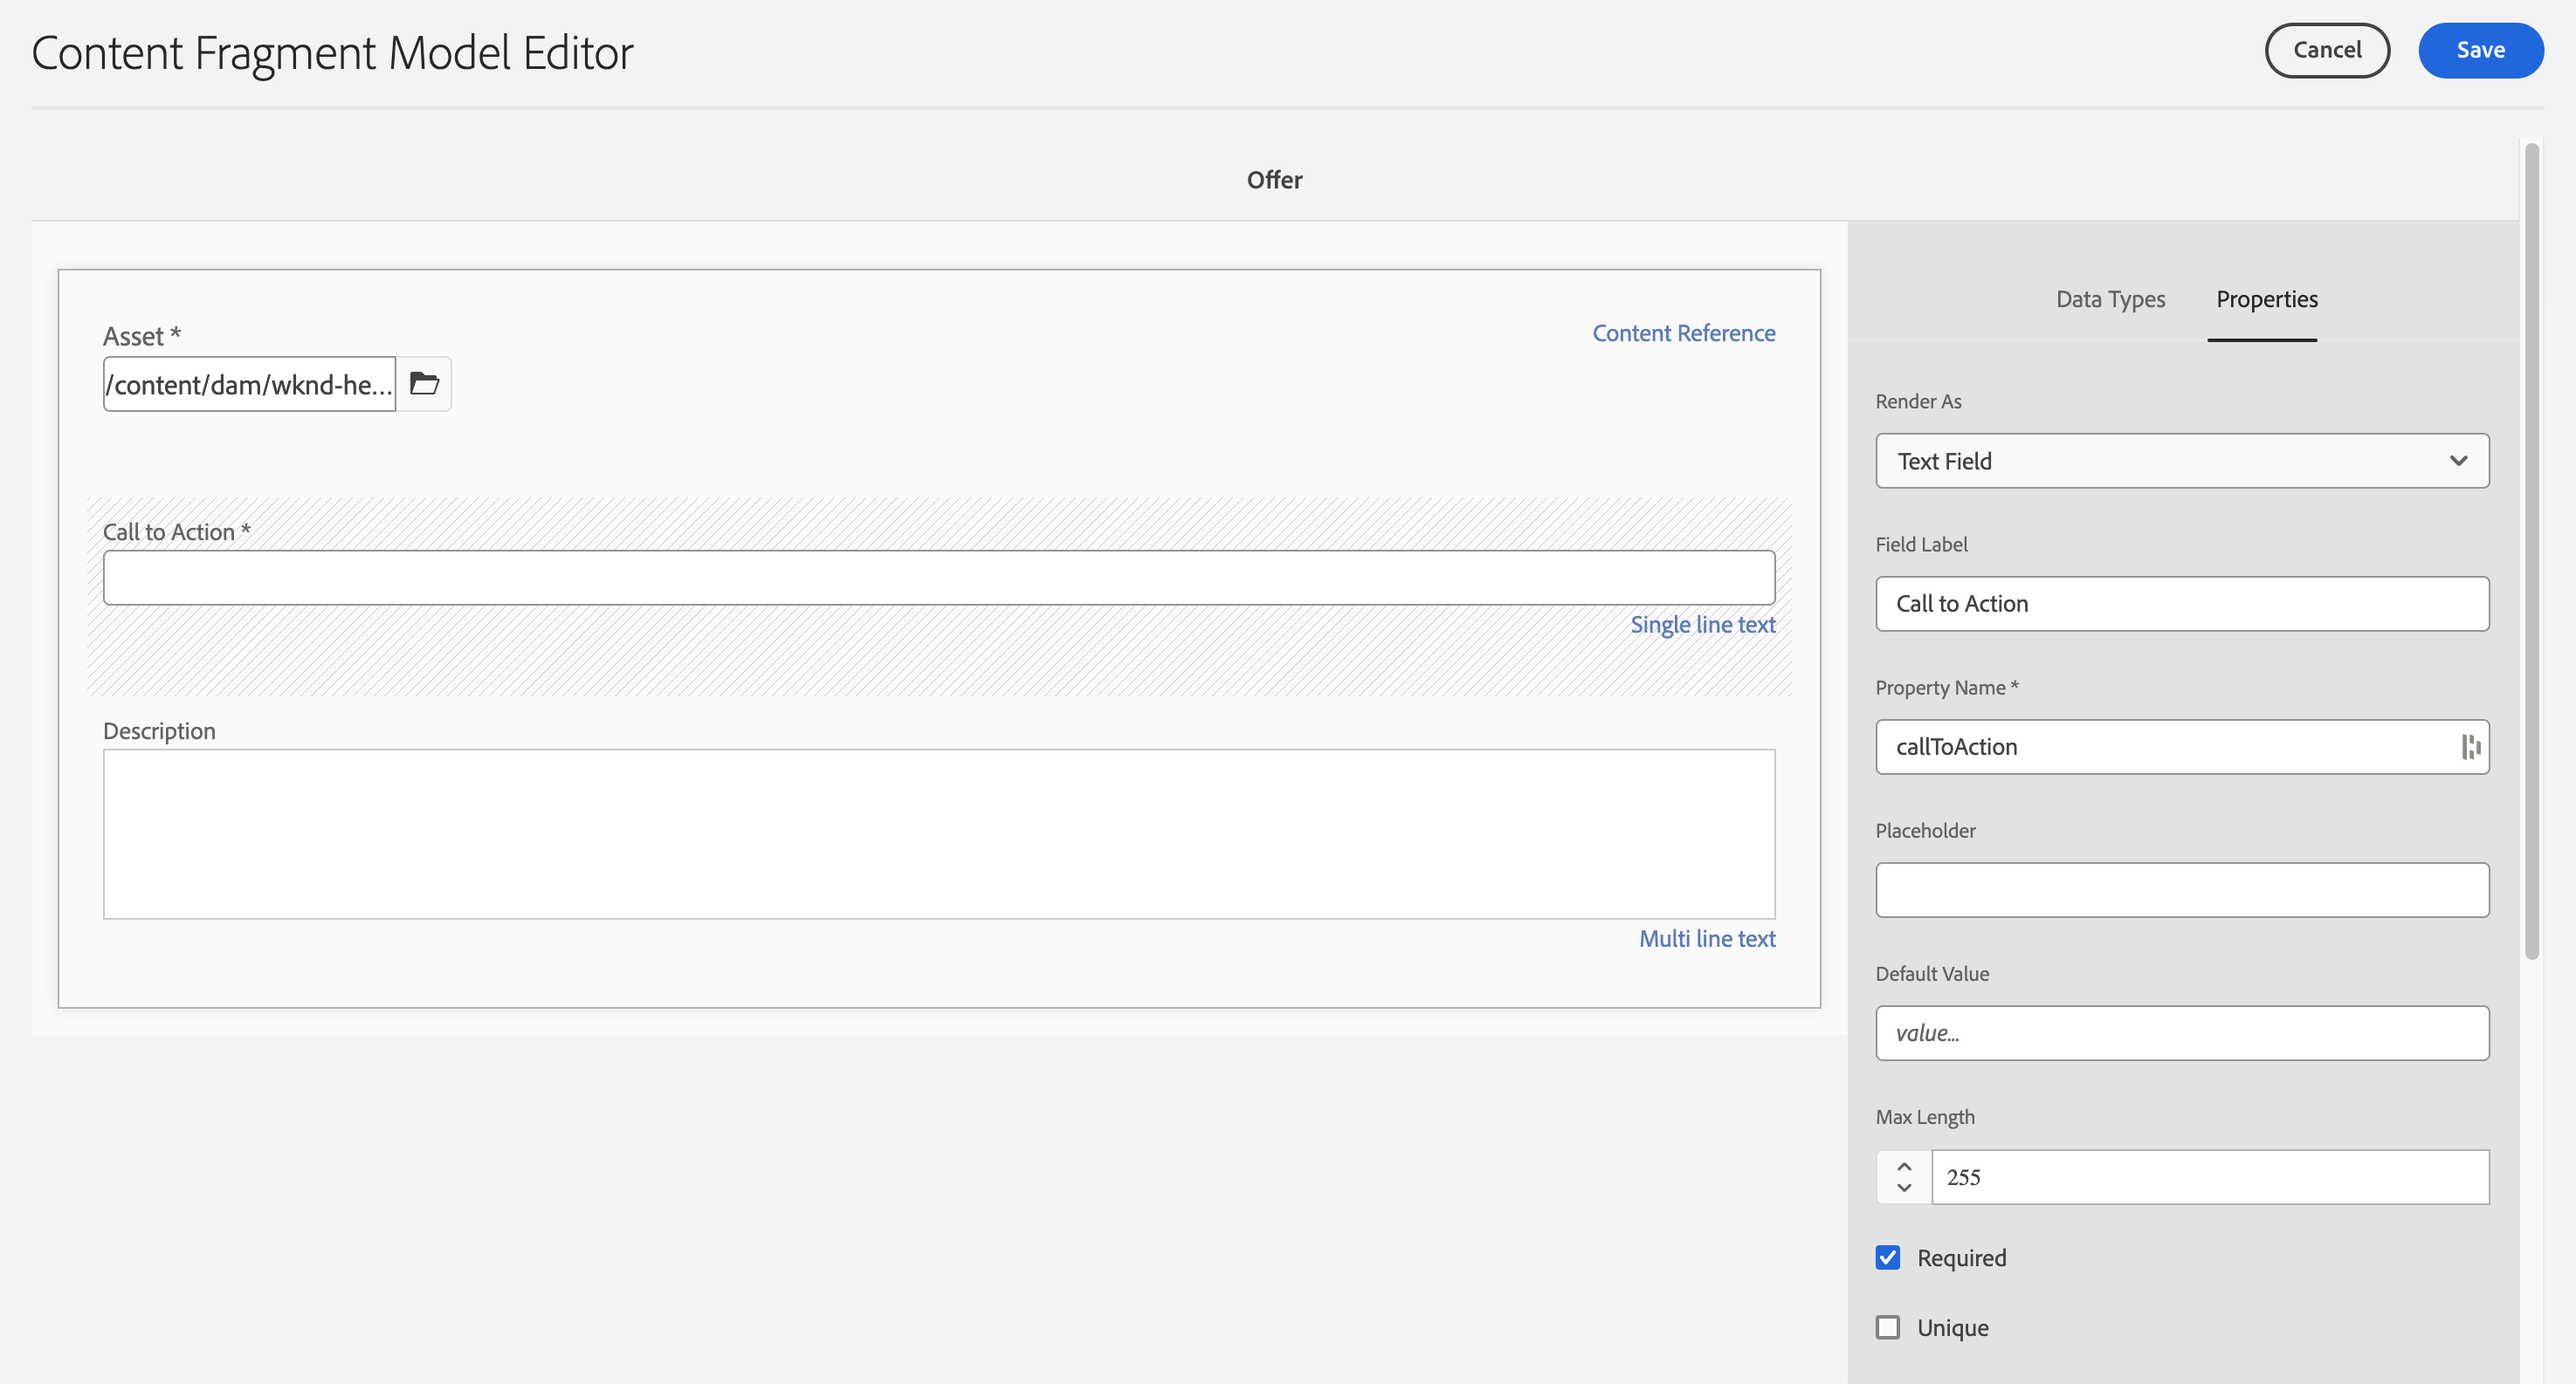
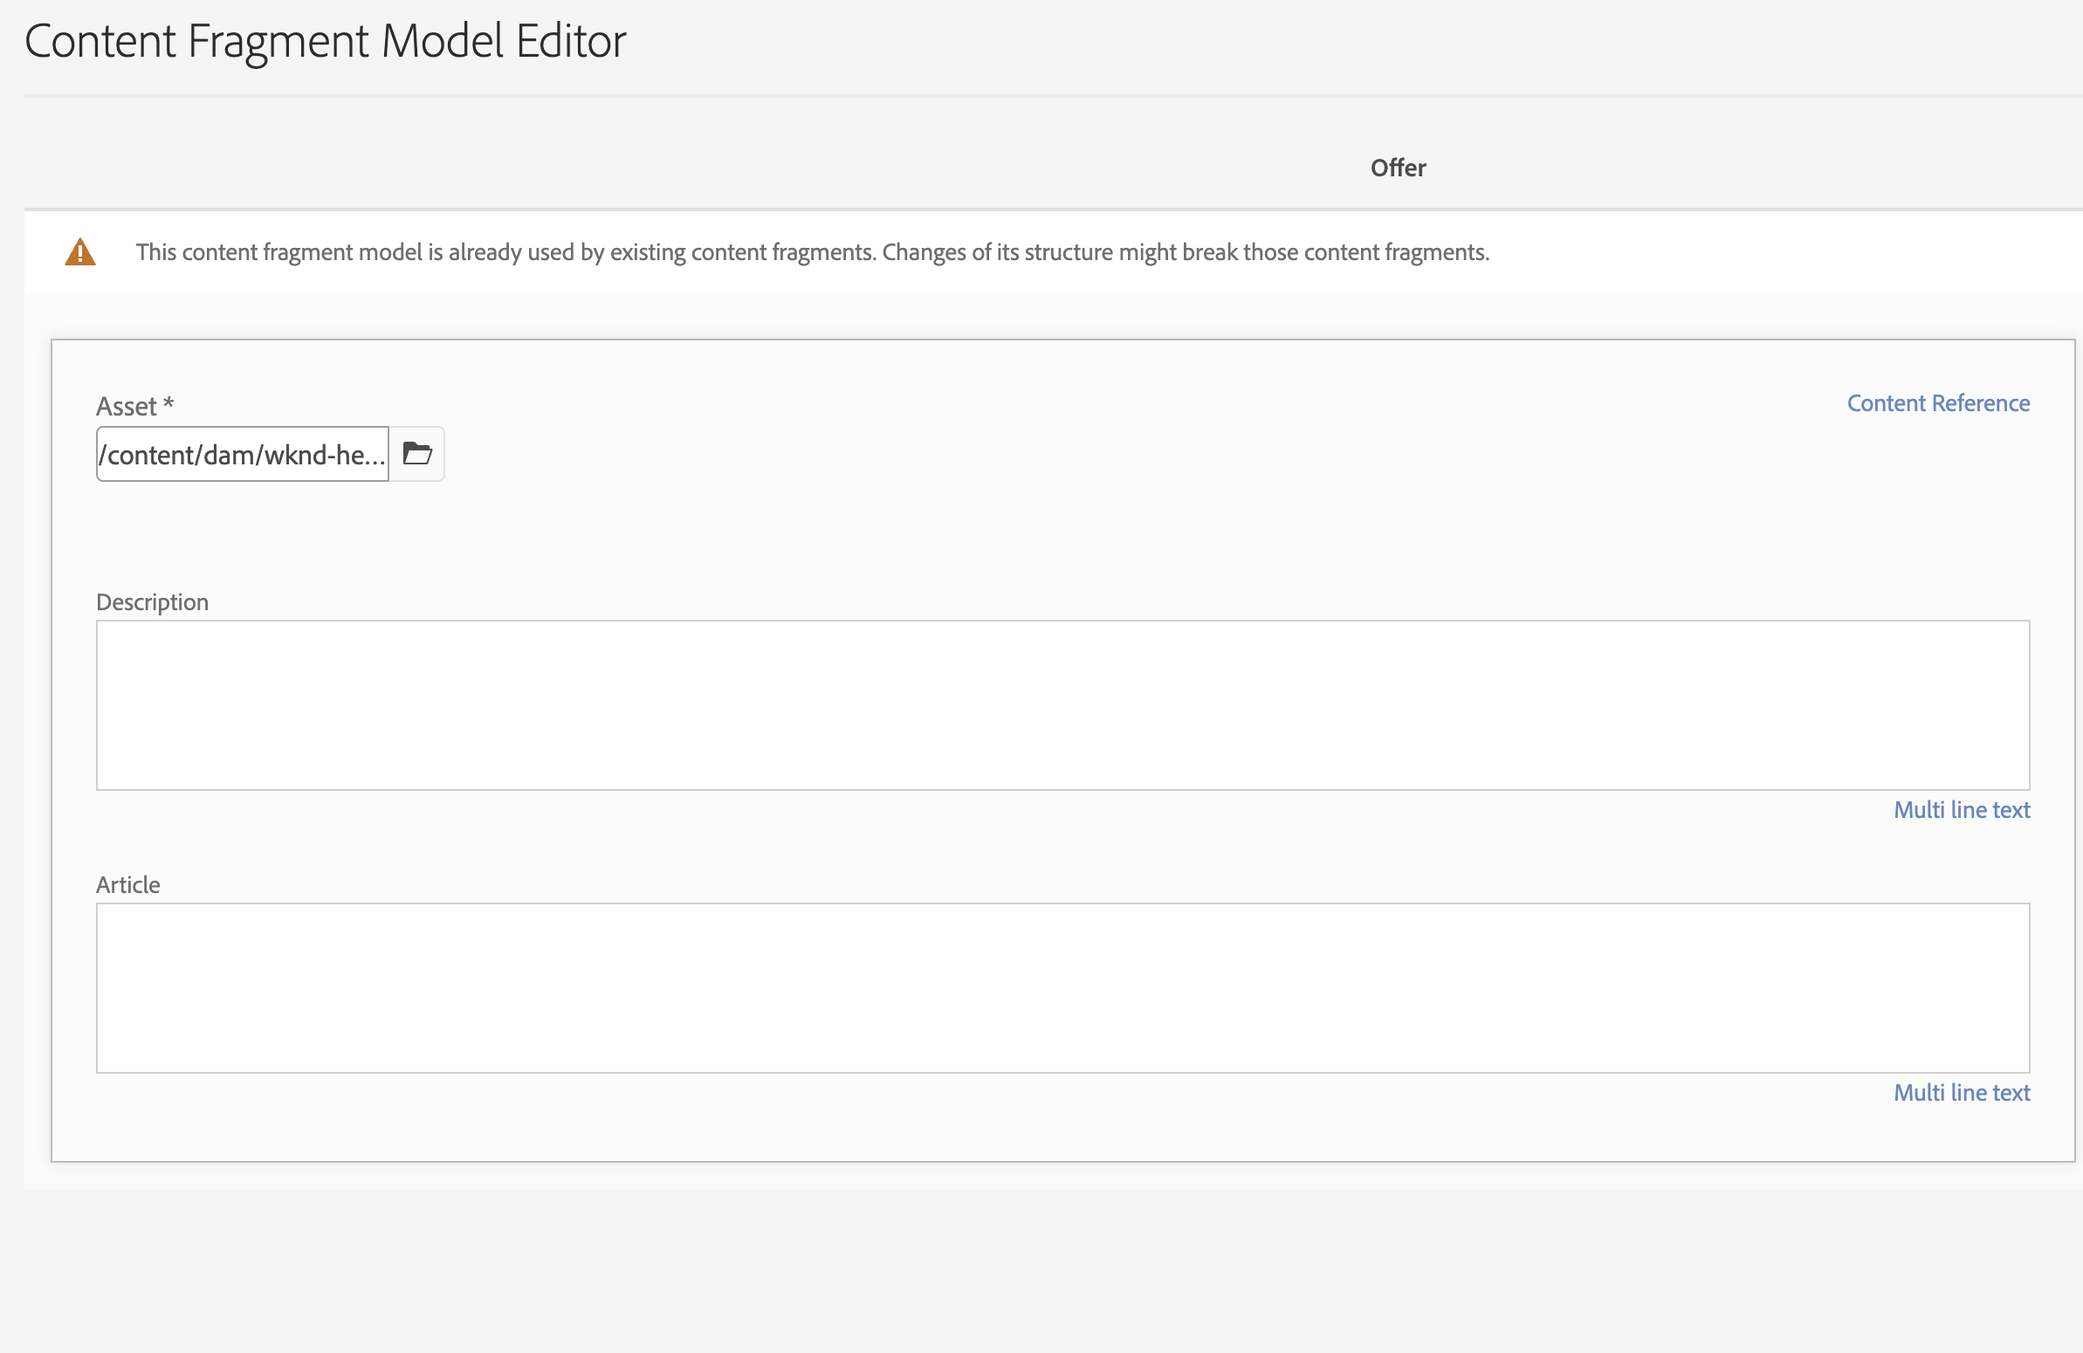
update README

diff --git a/README.md b/README.md
@@ -66,8 +66,8 @@ We will give it a title and name and select GraphQL Persisted Queires and Conten
 | Datatype | Name | Required | Options |
 |----------|------|----------|---------|
 | Conent Reference | Asset | yes | Add default image. Ex: /content/dam/wknd-headless/assets/AdobeStock_238607111.jpeg |
-| Single line text | Call to Action | yes | |
 | Multi line text | Description | no ||
+| Multi line text | Article | no ||
 
 ![Offer model](./assets/offer-model.png)
 
